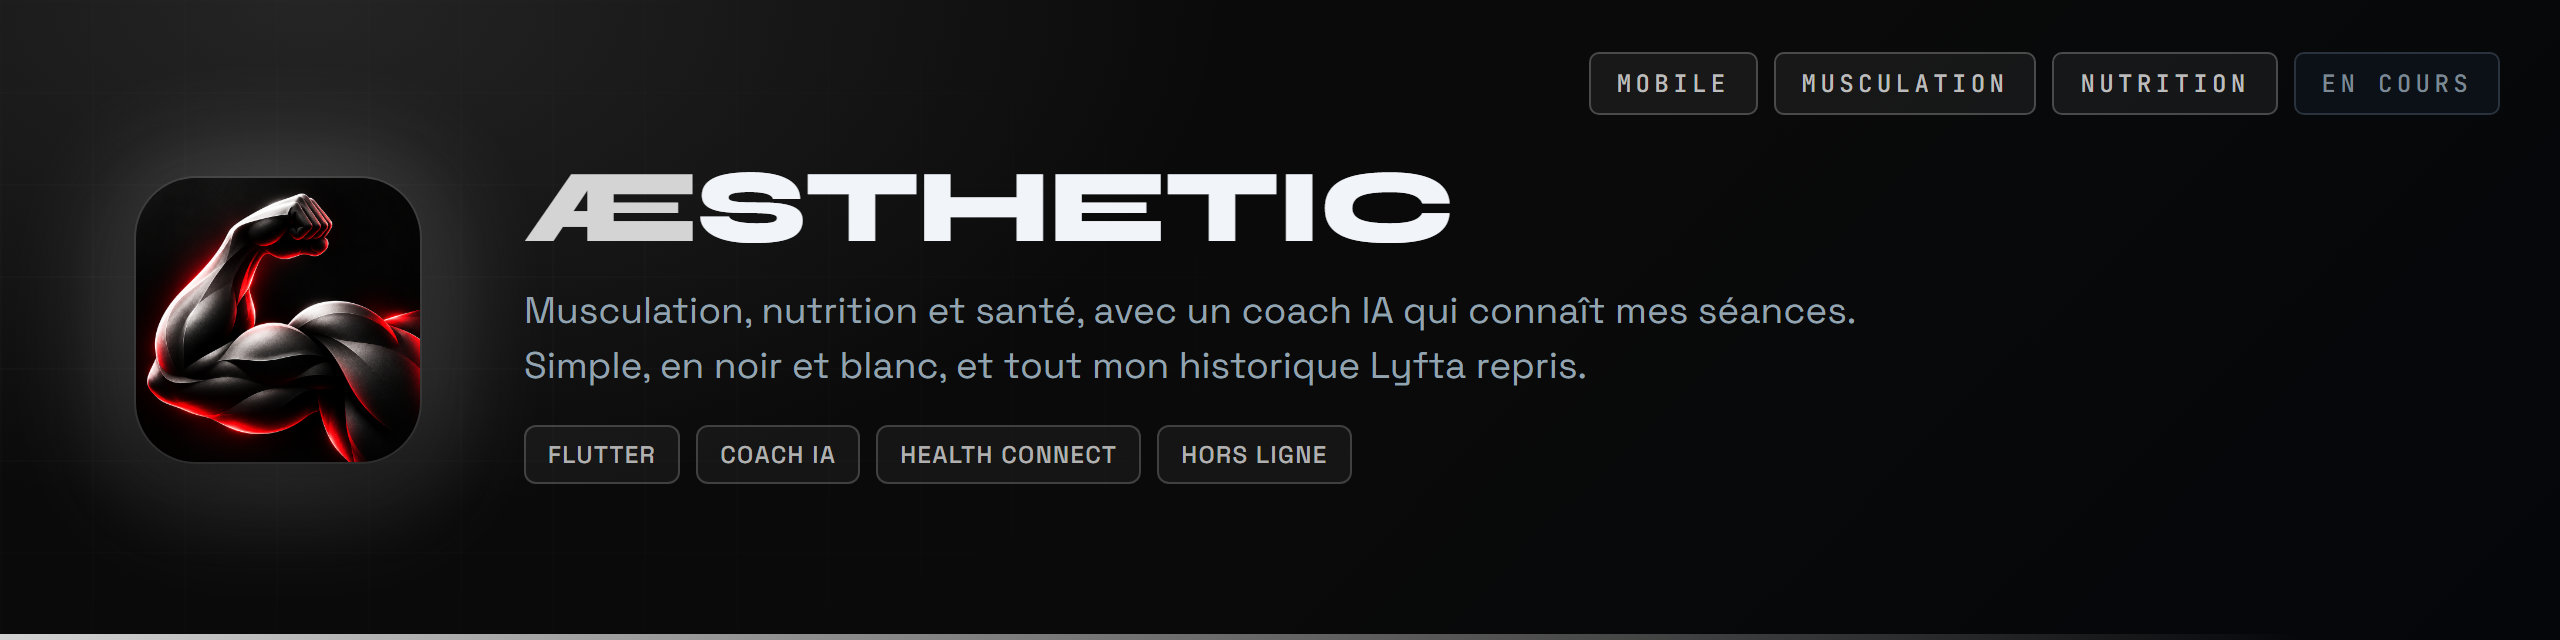
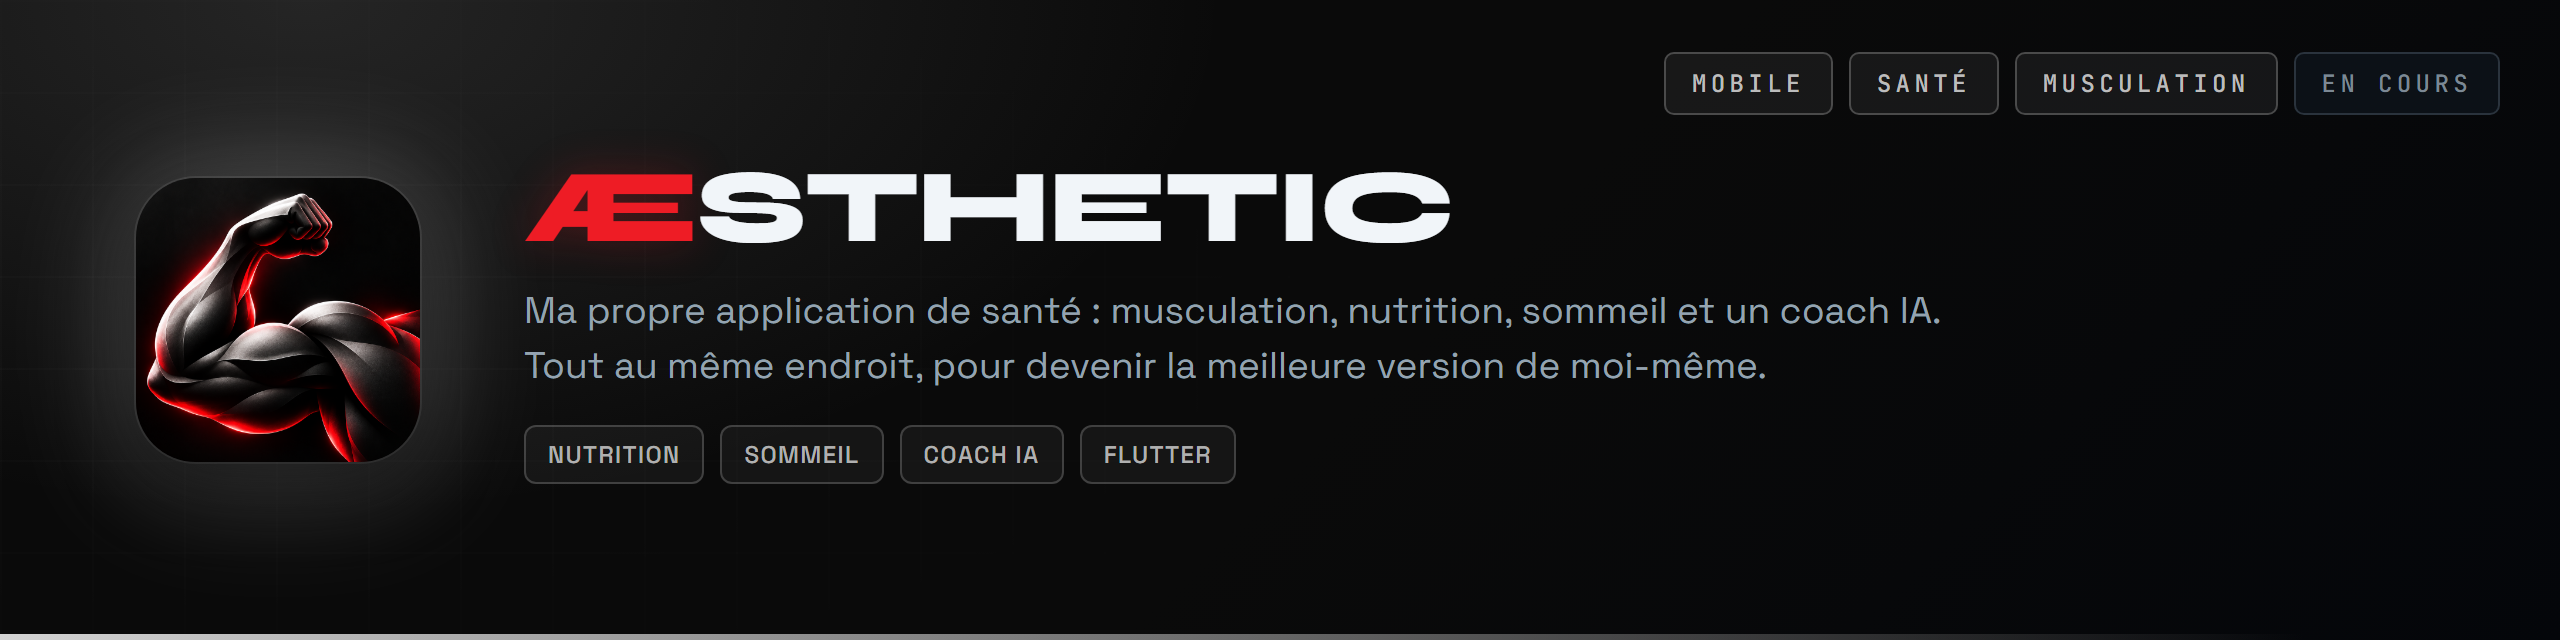
ÆSTHETIC : le Æ en rouge, ma propre appli de santé, des couleurs douces

diff --git a/README.md b/README.md
@@ -5,24 +5,22 @@
   <a href="README.en.md"><img src="docs/langues/en-off.png" alt="Read this page in English" width="150" /></a>
 </p>
 
-<img src="docs/banniere.png" alt="ÆSTHETIC, musculation, nutrition et santé, avec un coach IA qui connaît mes séances" width="100%">
+<img src="docs/banniere.png" alt="ÆSTHETIC, ma propre application de santé : musculation, nutrition, sommeil et coach IA" width="100%">
 <br><br>
 
 </div>
 
-**Mon application de suivi : la salle, l'assiette, le sommeil, et un coach qui relie les trois.**
+**Ma propre application de santé : la musculation, la nutrition, le sommeil, et un coach IA qui relie le tout. Pour devenir la meilleure version de moi-même.**
 
 Je m'entraîne quatre fois par semaine et j'ai plus de 460 séances derrière moi. Pour les suivre, j'avais une application pour la muscu, une autre pour les calories, et ma montre pour le reste. Aucune ne voyait l'ensemble, alors aucune ne pouvait me dire pourquoi je stagne. ÆSTHETIC rassemble tout au même endroit, dans une interface volontairement sobre.
 
 <img src="docs/sections/s01.png" alt="01 L'idée" width="100%">
 
-**Simple.** Noir et blanc, de grands chiffres, rien qui clignote. Le vert n'apparaît que pour valider : une série cochée, un objectif atteint, une progression. Si c'est vert, c'est fait.
+**Doux pour les yeux.** Un fond presque noir aux gris chauds, de grands chiffres, rien qui clignote. Chaque domaine a sa couleur, toutes désaturées pour ne jamais piquer : bleu acier pour la salle, miel pour l'assiette, lavande pour le sommeil, rose poudré pour le cœur, sarcelle pour le coach. Le vert sauge ne sert qu'à valider : si c'est vert, c'est fait.
 
 **Complet.** Cinq onglets suffisent : Aujourd'hui, Entraîner, Coach, Nutrition, Progrès. L'écran du jour dit tout en un coup d'œil, la séance prévue, les calories restantes, les protéines, les pas, la récupération.
 
 **À moi.** Pas d'abonnement, pas de fonction verrouillée. Les données restent sur le téléphone, avec une sauvegarde automatique chaque nuit.
-
-J'ai longtemps utilisé Lyfta, que j'aime beaucoup et dont je reprends l'historique. ÆSTHETIC n'en est pas une copie : c'est ce que j'aurais voulu y trouver en plus.
 
 <img src="docs/sections/s02.png" alt="02 S'entraîner" width="100%">
 
@@ -68,14 +66,14 @@ On choisit ce qu'il a le droit de lire, et rien ne lui est envoyé sans qu'on l'
 
 <img src="docs/sections/s06.png" alt="06 Reprendre ses données" width="100%">
 
-Lyfta exporte tout son historique en CSV, depuis Profil, Paramètres, Exporter des données. ÆSTHETIC lit ce fichier et recrée les séances, les séries, les records et les programmes. Les noms d'exercices sont rapprochés automatiquement, et ceux qui restent ambigus sont montrés avant l'import.
+On n'arrive pas les mains vides : l'historique d'une autre application de suivi se reprend depuis son export CSV. ÆSTHETIC recrée les séances, les séries, les records et les programmes. Les noms d'exercices sont rapprochés automatiquement, et ceux qui restent ambigus sont montrés avant l'import.
 
-Hevy, Strong et FitNotes passent par le même chemin, ainsi qu'un tableau quelconque dont on associe les colonnes à la main. L'export se fait dans l'autre sens aussi, en CSV ou en JSON.
+Un tableau quelconque passe aussi, en associant ses colonnes à la main. L'export se fait dans l'autre sens aussi, en CSV ou en JSON.
 
 <img src="docs/sections/s07.png" alt="07 Où en est le projet" width="100%">
 
-La maquette est terminée : douze écrans interactifs, de l'écran du jour au coach, dans la direction artistique définitive. L'application Android arrive ensuite, en Flutter, avec une version complète et une démo installables côte à côte.
+La maquette est terminée : treize écrans interactifs, de l'écran du jour au sommeil et au coach, dans des couleurs douces pensées pour ne jamais fatiguer les yeux. L'application Android arrive ensuite, en Flutter, avec une version complète et une démo installables côte à côte.
 
 <br>
 
-<sub>Projet personnel, sans lien avec Lyfta. Sous licence MIT.</sub>
+<sub>Projet personnel, sous licence MIT.</sub>

diff --git a/README.en.md b/README.en.md
@@ -5,24 +5,22 @@
   <img src="docs/langues/en-on.png" alt="English, current page" width="150" />
 </p>
 
-<img src="docs/en/banniere.png" alt="ÆSTHETIC, training, nutrition and health, with an AI coach that knows my workouts" width="100%">
+<img src="docs/en/banniere.png" alt="ÆSTHETIC, my own health app: training, nutrition, sleep and an AI coach" width="100%">
 <br><br>
 
 </div>
 
-**My own tracker: the gym, the plate, the sleep, and a coach that ties the three together.**
+**My own health app: training, nutrition, sleep, and an AI coach that ties it all together. To become the best version of myself.**
 
 I train four times a week and have more than 460 workouts behind me. To track them I had one app for lifting, another for calories, and my watch for the rest. None of them saw the whole picture, so none of them could tell me why I was stalling. ÆSTHETIC puts everything in one place, in a deliberately quiet interface.
 
 <img src="docs/en/sections/s01.png" alt="01 The idea" width="100%">
 
-**Simple.** Black and white, big numbers, nothing blinking. Green only shows up to confirm: a ticked set, a goal reached, a step forward. If it is green, it is done.
+**Easy on the eyes.** A near-black background with warm greys, big numbers, nothing blinking. Each area has its own colour, all of them muted so nothing stings: steel blue for the gym, honey for the plate, lavender for sleep, dusty rose for the heart, teal for the coach. Sage green only means done: if it is green, it is finished.
 
 **Complete.** Five tabs are enough: Today, Train, Coach, Nutrition, Progress. The today screen says it all at a glance: the planned workout, calories left, protein, steps, recovery.
 
 **Mine.** No subscription, no locked features. Data stays on the phone, with an automatic backup every night.
-
-I used Lyfta for a long time, I like it a lot, and I bring its history along. ÆSTHETIC is not a copy of it: it is what I wished I could find there on top.
 
 <img src="docs/en/sections/s02.png" alt="02 Training" width="100%">
 
@@ -68,14 +66,14 @@ You choose what it is allowed to read, and nothing is sent to it until you open 
 
 <img src="docs/en/sections/s06.png" alt="06 Bringing your data along" width="100%">
 
-Lyfta exports its whole history as CSV, from Profile, Settings, Export data. ÆSTHETIC reads that file and rebuilds the workouts, sets, records and programs. Exercise names are matched automatically, and the ambiguous ones are shown before importing.
+You do not start from scratch: the history from another tracking app comes over from its CSV export. ÆSTHETIC rebuilds the workouts, sets, records and programs. Exercise names are matched automatically, and the ambiguous ones are shown before importing.
 
-Hevy, Strong and FitNotes go through the same path, along with any spreadsheet whose columns you map by hand. Export works the other way too, as CSV or JSON.
+Any spreadsheet works too, by mapping its columns by hand. Export works the other way too, as CSV or JSON.
 
 <img src="docs/en/sections/s07.png" alt="07 Where things stand" width="100%">
 
-The mockup is done: twelve interactive screens, from the today screen to the coach, in the final art direction. The Android app comes next, in Flutter, with a full version and a demo that install side by side.
+The mockup is done: thirteen interactive screens, from the today screen to sleep and the coach, in soft colours designed never to tire the eyes. The Android app comes next, in Flutter, with a full version and a demo that install side by side.
 
 <br>
 
-<sub>A personal project, not affiliated with Lyfta. MIT licensed.</sub>
+<sub>A personal project, MIT licensed.</sub>
